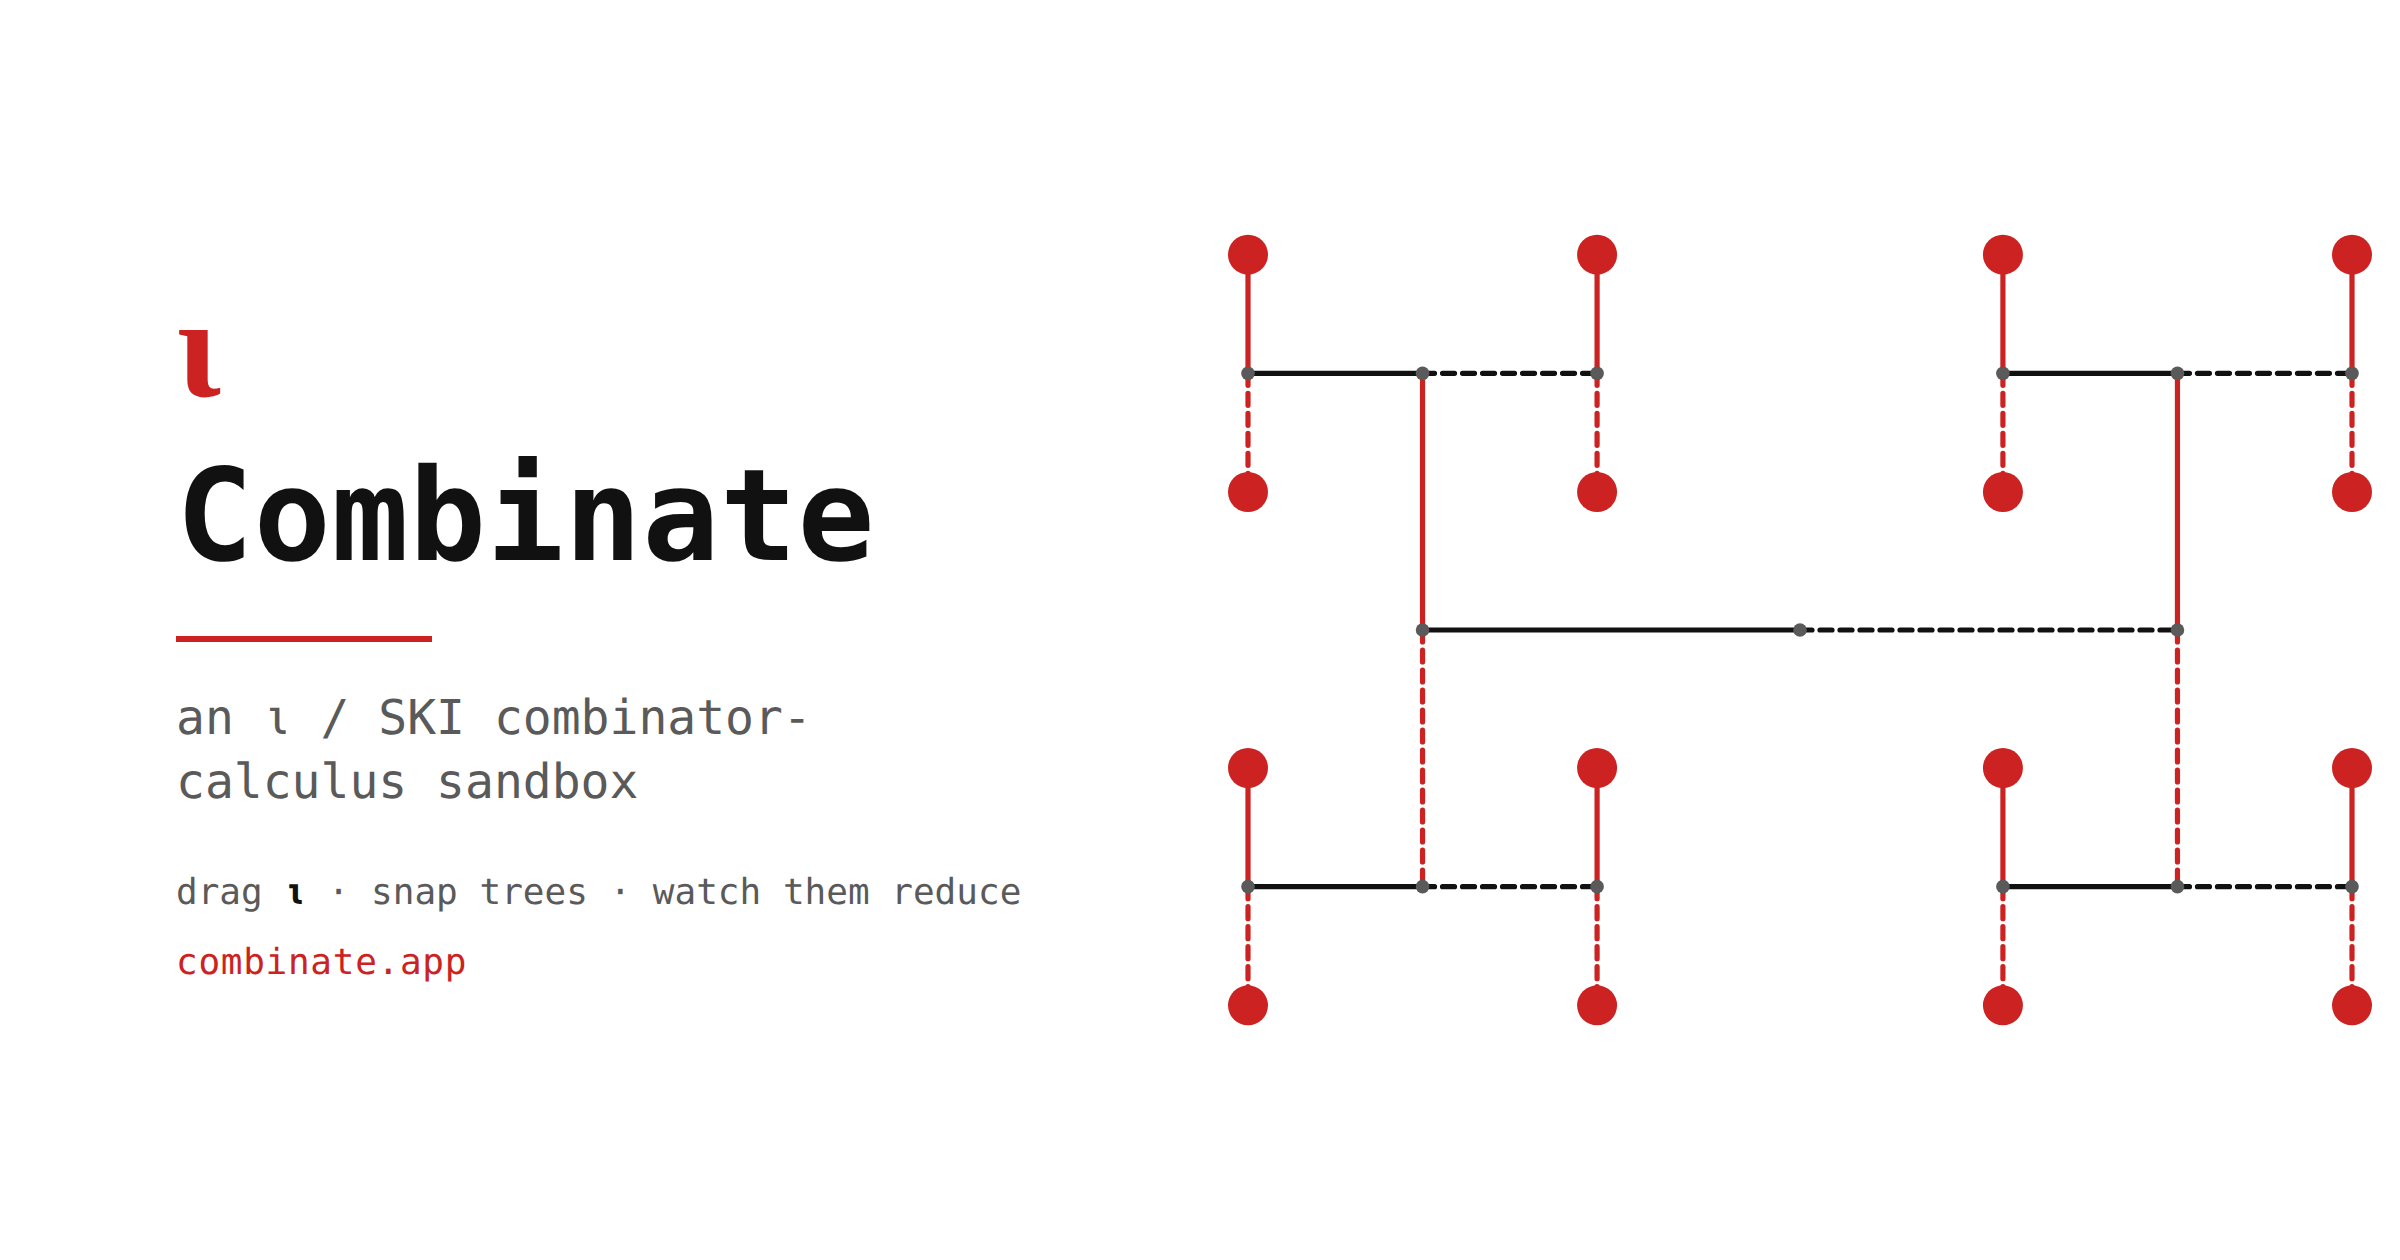
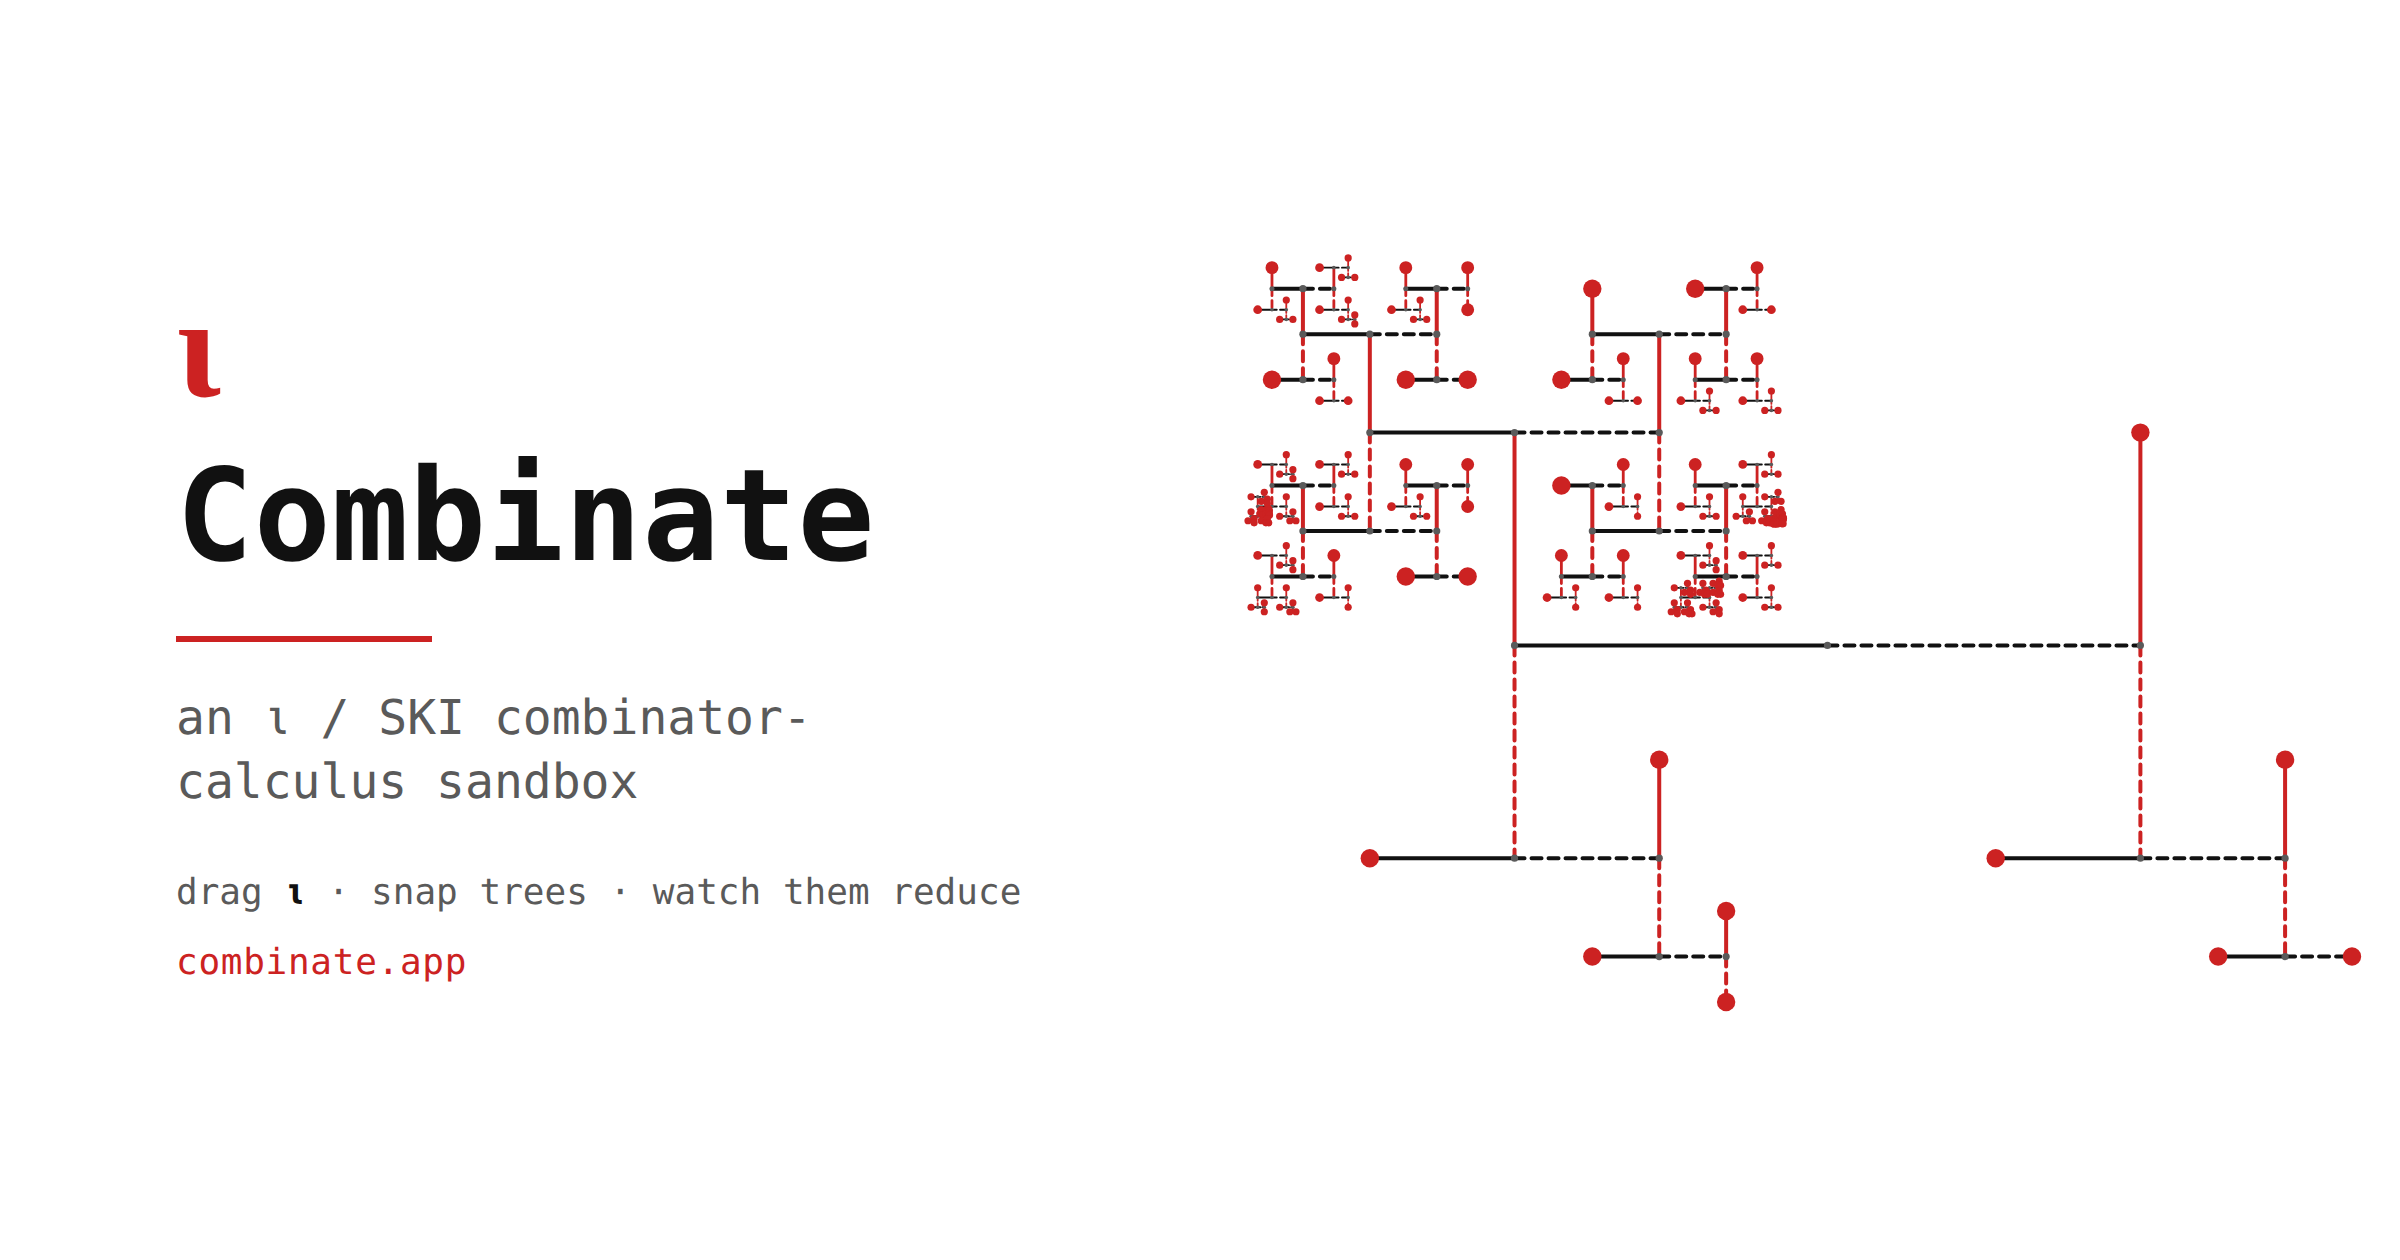
fix(branding): OG hero is (+ 1 1), ι-expanded — a richer fractal
Swap the balanced ι tree for the real term (+) 1 1 fully expanded to ι (491
nodes): an organic, intricate H-tree fractal instead of a sterile grid. Nodes
sized down so the dense (+) recursion breathes. Splash keeps the small balanced
tree (this term is too dense to read at 260px).

diff --git a/scripts/gen-og.ts b/scripts/gen-og.ts
@@ -13,8 +13,9 @@ import { writeFileSync } from "node:fs";
 import { fileURLToPath } from "node:url";
 import { dirname, resolve } from "node:path";
 import { chromium } from "playwright-core";
-import { layoutHTree } from "../src/core/layout";
-import { app, iota, type Node } from "../src/core/term";
+import { layoutHTree, countNodes } from "../src/core/layout";
+import { named, expandDisplay } from "../src/core/catalog";
+import { app, type Node } from "../src/core/term";
 
 const HERE = dirname(fileURLToPath(import.meta.url));
 const OUT = resolve(HERE, "../public/og.png");
@@ -25,15 +26,17 @@ const INK = "#111111"; // tree ink (nodes, even-depth edges)
 const RED = "#cc2222"; // the red tier / brand accent (odd-depth edges, ι leaves)
 const DIM = "#5a5a5a";
 
-/** A balanced binary application tree of ι leaves — the iconic H-tree fractal. */
-const balanced = (depth: number): Node => (depth <= 0 ? iota() : app(balanced(depth - 1), balanced(depth - 1)));
+/** `(+) 1 1`, fully ι-expanded — a real term (Peano 1 + 1) as a dense, organic
+ *  ι fractal, the app's characteristic view. */
+const heroTerm = (): Node => expandDisplay(app(app(named("(+)"), named("1")), named("1")), { expandAll: true, isDiscovered: () => true });
 
 const tier = (depth: number): string => (depth % 2 === 0 ? INK : RED);
 
 /** The hero tree as an H-tree SVG fitted to `w`×`h`, nodes sized by the layout's
  *  per-depth scale (so the fractal breathes instead of clumping). */
 function treeSvg(w: number, h: number): string {
-  const root = balanced(4);
+  const root = heroTerm();
+  console.log(`hero: ${countNodes(root)} nodes`);
   const { pos, scale, minX, minY, width, height } = layoutHTree(root);
   const pad = 48;
   const s = Math.min((w - pad) / (width || 1), (h - pad) / (height || 1));
@@ -52,14 +55,14 @@ function treeSvg(w: number, h: number): string {
       const f = at(n.fn);
       const a = at(n.arg);
       const col = tier(depth);
-      const sw = Math.max(1.2, 2.6 * sc(n));
+      const sw = Math.max(0.9, 2 * sc(n));
       edges.push(`<line x1="${p.x}" y1="${p.y}" x2="${f.x}" y2="${f.y}" stroke="${col}" stroke-width="${sw}" stroke-linecap="round"/>`);
-      edges.push(`<line x1="${p.x}" y1="${p.y}" x2="${a.x}" y2="${a.y}" stroke="${col}" stroke-width="${sw}" stroke-linecap="round" stroke-dasharray="${6 * sc(n)} ${4 * sc(n)}"/>`);
-      nodes.push(`<circle cx="${p.x}" cy="${p.y}" r="${Math.max(1.5, 3.4 * sc(n))}" fill="${DIM}"/>`);
+      edges.push(`<line x1="${p.x}" y1="${p.y}" x2="${a.x}" y2="${a.y}" stroke="${col}" stroke-width="${sw}" stroke-linecap="round" stroke-dasharray="${5 * sc(n)} ${3.5 * sc(n)}"/>`);
+      nodes.push(`<circle cx="${p.x}" cy="${p.y}" r="${Math.max(0.9, 1.8 * sc(n))}" fill="${DIM}"/>`);
       walk(n.fn, depth + 1);
       walk(n.arg, depth + 1);
     } else {
-      nodes.push(`<circle cx="${p.x}" cy="${p.y}" r="${Math.max(4, 10 * sc(n))}" fill="${RED}"/>`);
+      nodes.push(`<circle cx="${p.x}" cy="${p.y}" r="${Math.max(1.8, 4.6 * sc(n))}" fill="${RED}"/>`);
     }
   };
   walk(root, 0);